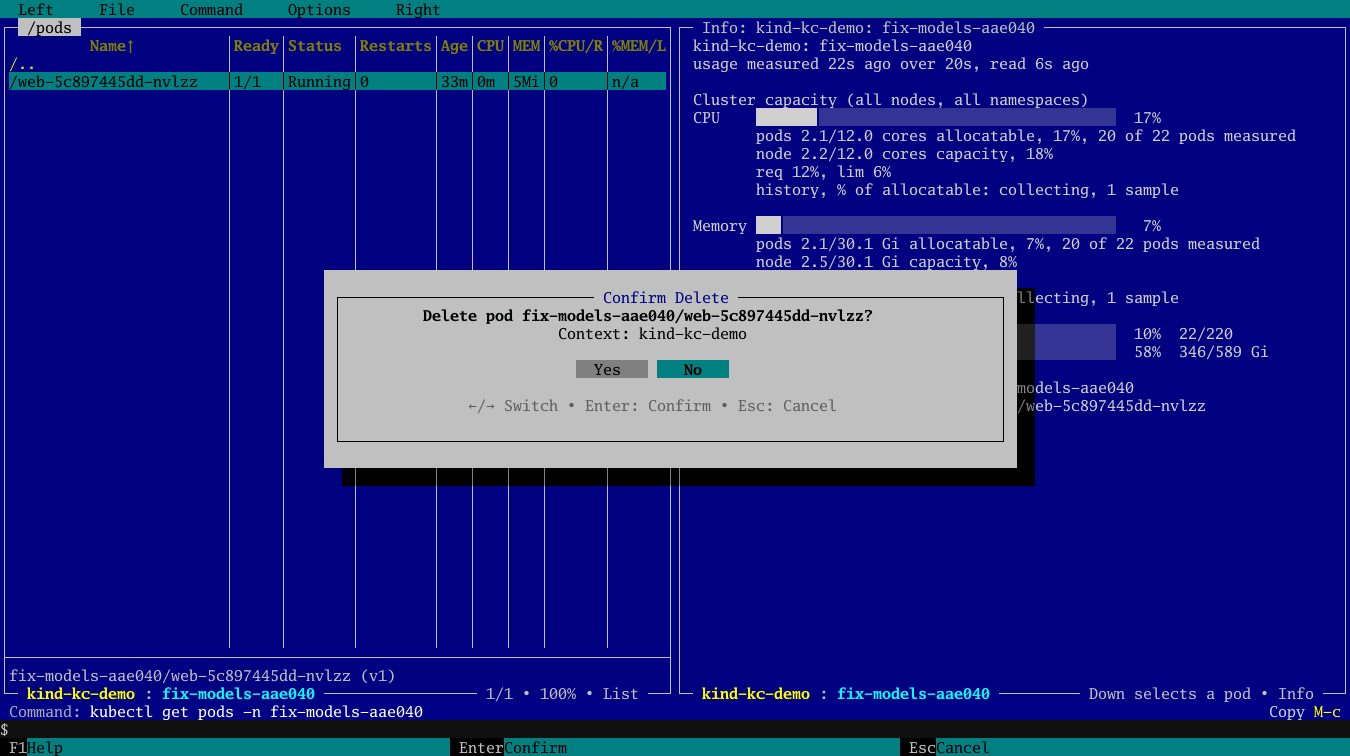
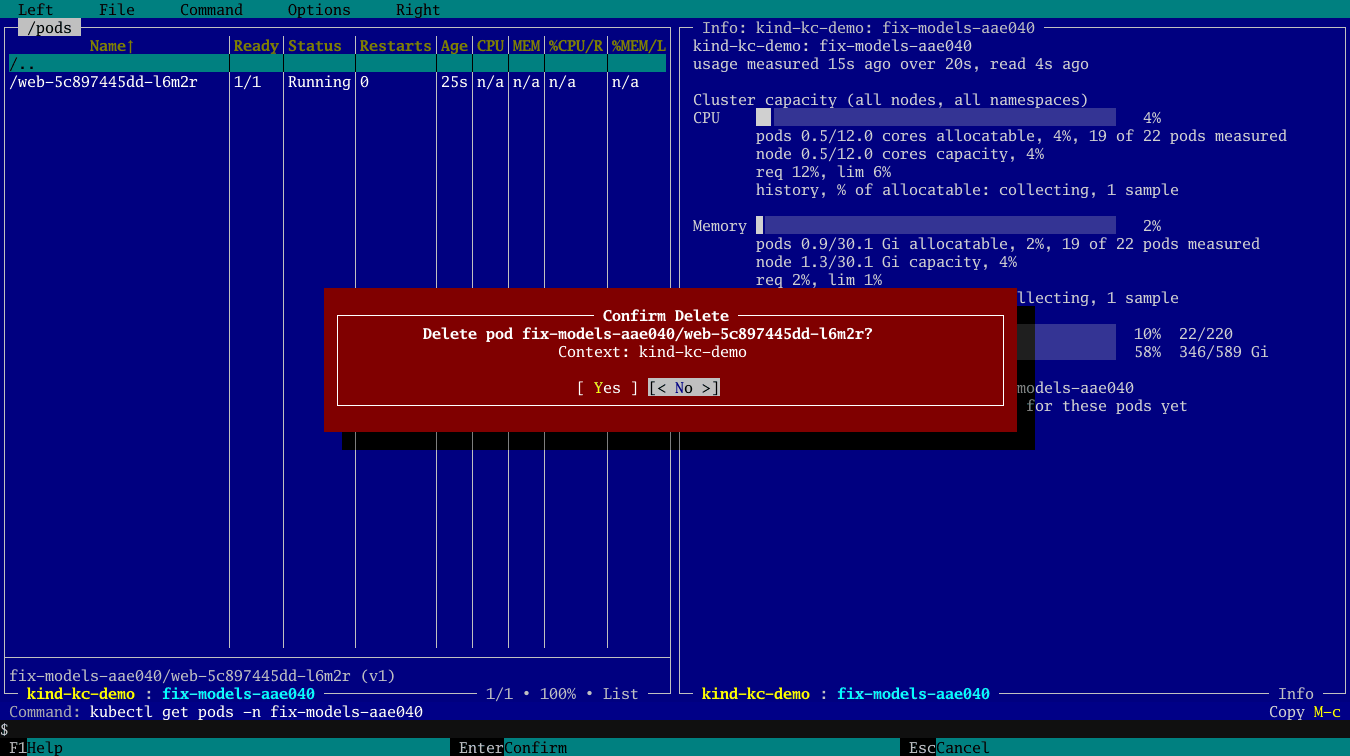
Draw the delete confirm red (#334)
Refs #323

#327 renamed the object in the delete confirm, but the dialog stayed
gray, with its own buttons and a key-help line. Every other dialog that
changes the cluster (scale, restart, rollback, drain, guarded commands)
uses the red danger skin. The delete confirm now does too:

- `SetDanger(true)` on the modal, `dialog.Danger()` for the body,
`dialog.RenderButtons` for `[ Yes ]` `[< No >]`. No is still the
default, so Enter right after F8 keeps the object.
- The gray "←/→ Switch • Enter: Confirm • Esc: Cancel" line is gone. The
F-key bar already shows Enter and Esc.
- The window is sized to its content: the title, the context, a blank
line and the buttons, with nothing empty under the buttons. The title
wraps and is never cut, so a long object name stays readable. The height
counts the wrapped lines.

The delete help page says the dialog is red and that `y` and `n` answer
directly.

This PR also removes the before screenshots of #324 and #327 from
`docs/screenshots` and replaces `327-after-delete.png` with the red
dialog.

## Tests

The existing `delete_confirm_modal_test.go` tests pass unchanged: No is
the default, Left then Enter confirms, `y` confirms, and the button
rectangles that mouse clicks use sit on the button line with and without
a context. New: `TestDeleteConfirmHeightFitsContent` checks 4 lines with
a context and 3 without, more lines for a wrapped title with the whole
name kept, and both buttons drawn.
[…]

diff --git a/internal/ui/delete_confirm_modal.go b/internal/ui/delete_confirm_modal.go
@@ -7,7 +7,7 @@ import (
 	tea "charm.land/bubbletea/v2"
 	"charm.land/lipgloss/v2"
 
-	uistyles "github.com/stokaro/kc/internal/ui/styles"
+	"github.com/stokaro/kc/internal/ui/dialog"
 )
 
 // DeleteConfirmMsg signals the result of the delete confirmation dialog.
@@ -101,61 +101,42 @@ func (m *DeleteConfirmModel) Update(msg tea.Msg) (tea.Model, tea.Cmd) {
 
 func (m *DeleteConfirmModel) View() tea.View {
 	innerWidth := max(30, m.width-4)
-	const buttonWidth = 8
-	separatorWidth := 1
+	skin := dialog.Danger()
+	row := skin.Normal.Width(innerWidth)
+	// The title wraps rather than cuts: the name is what the user checks
+	// before confirming.
+	lines := []string{row.Bold(true).Align(lipgloss.Center).Render(fmt.Sprintf("Delete %s?", m.target))}
+	if m.context != "" {
+		lines = append(lines, row.Align(lipgloss.Center).Render(fmt.Sprintf("Context: %s", m.context)))
+	}
+	lines = append(lines, row.Render(""))
+	top := lipgloss.Height(lipgloss.JoinVertical(lipgloss.Left, lines...))
+	// No is the default answer, so Enter right after opening keeps the
+	// object, as mc's confirm dialogs do.
+	buttons, rects := dialog.RenderButtons(skin, innerWidth, []dialog.Button{
+		{Label: "&Yes"}, {Label: "&No", Default: true},
+	}, m.focus)
 	for i := range m.buttonRect {
 		m.buttonRect[i] = buttonRect{}
 	}
-	bg := lipgloss.NewStyle().
-		Background(lipgloss.Color(uistyles.ColorModalBg)).
-		Foreground(lipgloss.Color(uistyles.ColorModalFg)).
-		Width(innerWidth)
-	title := fmt.Sprintf("Delete %s?", m.target)
-	titleView := bg.Bold(true).Align(lipgloss.Center).Render(title)
-	lines := []string{titleView}
-	if m.context != "" {
-		lines = append(lines, bg.Align(lipgloss.Center).Render(fmt.Sprintf("Context: %s", m.context)))
+	for i, r := range rects {
+		if i < len(m.buttonRect) {
+			m.buttonRect[i] = buttonRect{x: r.X, y: top, w: r.W, h: 1}
+		}
 	}
-	helpView := bg.Faint(true).Align(lipgloss.Center).Render("←/→ Switch • Enter: Confirm • Esc: Cancel")
-	options := []string{
-		m.renderOption("Yes", buttonWidth, m.focus == 0),
-		m.renderOption("No", buttonWidth, m.focus != 0),
-	}
-	separator := lipgloss.NewStyle().
-		Background(lipgloss.Color(uistyles.ColorModalBg)).
-		Render(" ")
-	bodyRow := lipgloss.JoinHorizontal(lipgloss.Center, options[0], separator, options[1])
-	bodyView := bg.Align(lipgloss.Center).Render(bodyRow)
-	rowWidth := lipgloss.Width(bodyRow)
-	leftPad := max(0, (innerWidth-rowWidth)/2)
-	bodyLine := len(lines) + 1 // title and context lines, spacer, buttons
-	yesWidth := lipgloss.Width(options[0])
-	noWidth := lipgloss.Width(options[1])
-	m.buttonRect[0] = buttonRect{x: leftPad, y: bodyLine, w: yesWidth, h: 1}
-	m.buttonRect[1] = buttonRect{
-		x: leftPad + yesWidth + separatorWidth,
-		y: bodyLine,
-		w: noWidth,
-		h: 1,
-	}
-	spacer := bg.Render("")
-	lines = append(lines, spacer, bodyView, spacer, helpView)
+	lines = append(lines, buttons)
 	return tea.NewView(lipgloss.JoinVertical(lipgloss.Left, lines...))
 }
 
-func (m *DeleteConfirmModel) renderOption(label string, width int, focused bool) string {
-	style := lipgloss.NewStyle().
-		Foreground(lipgloss.Color(uistyles.ColorModalFg)).
-		Background(lipgloss.Color(uistyles.ColorDarkGrey)).
-		Width(width).
-		Align(lipgloss.Center)
-	if focused {
-		style = style.
-			Foreground(lipgloss.Color(uistyles.ColorModalFg)).
-			Background(lipgloss.Color(uistyles.ColorModalSelBg)).
-			Bold(true)
-	}
-	return style.Render(label)
+// Height is the number of lines the dialog shows in a window whose inner
+// width is innerW: the title (wrapped), the context, a blank line and
+// the buttons.
+func (m *DeleteConfirmModel) Height(innerW int) int {
+	w, h := m.width, m.height
+	m.SetDimensions(innerW, h)
+	n := lipgloss.Height(m.View().Content)
+	m.SetDimensions(w, h)
+	return n
 }
 
 func (m *DeleteConfirmModel) FooterHints() []FooterHint {

diff --git a/internal/ui/delete_confirm_modal_test.go b/internal/ui/delete_confirm_modal_test.go
@@ -1,9 +1,11 @@
 package ui
 
 import (
+	"strings"
 	"testing"
 
 	tea "charm.land/bubbletea/v2"
+	"github.com/charmbracelet/x/ansi"
 )
 
 func pressKey(code rune, text string, mod tea.KeyMod) tea.KeyPressMsg {
@@ -60,5 +62,37 @@ func TestDeleteConfirmRuneShortcut(t *testing.T) {
 	}
 	if !res.Confirm {
 		t.Fatalf("expected confirm true via shortcut")
+	}
+}
+
+// TestDeleteConfirmHeightFitsContent checks that the dialog asks for no
+// more lines than it draws (#323): title, context, a blank line and the
+// buttons, plus a line per wrap of a long title. The name is wrapped,
+// never cut.
+func TestDeleteConfirmHeightFitsContent(t *testing.T) {
+	t.Parallel()
+	model := NewDeleteConfirmModel()
+	model.Configure("pod shop/web-1", "kind-dev")
+	if got := model.Height(60); got != 4 {
+		t.Fatalf("Height with context = %d, want 4", got)
+	}
+	model.Configure("pod shop/web-1", "")
+	if got := model.Height(60); got != 3 {
+		t.Fatalf("Height without context = %d, want 3", got)
+	}
+	long := "pod fix-models-aae040/web-5c897445dd-nvlzz-with-a-much-longer-name"
+	model.Configure(long, "kind-dev")
+	if got := model.Height(40); got <= 4 {
+		t.Fatalf("Height of a wrapped title = %d, want more than 4", got)
+	}
+	model.SetDimensions(40, 10)
+	view := ansi.Strip(model.View().Content)
+	if flat := strings.Join(strings.Fields(view), ""); !strings.Contains(flat, "web-5c897445dd-nvlzz-with-a-much-longer-name") {
+		t.Fatalf("the wrapped title lost part of the name:\n%s", view)
+	}
+	for _, want := range []string{"[ Yes ]", "[< No >]"} {
+		if !strings.Contains(view, want) {
+			t.Fatalf("view has no %q button:\n%s", want, view)
+		}
 	}
 }

diff --git a/internal/ui/app.go b/internal/ui/app.go
@@ -1082,6 +1082,7 @@ func (a *App) setupModals() {
 	delModel := NewDeleteConfirmModel()
 	delModal := NewModal("Confirm Delete", delModel)
 	delModal.SetCloseOnSingleEsc(true)
+	delModal.SetDanger(true)
 	a.modalManager.Register("delete_confirm", delModal)
 	a.deleteConfirm = delModel
 
@@ -1901,14 +1902,9 @@ func (a *App) deleteResourceForPanel(panel *Panel) tea.Cmd {
 	modal.SetContent(a.deleteConfirm)
 	modal.SetDimensions(a.width, a.height)
 	bg, _ := a.renderMainView()
-	winW := min(max(50, a.width/2), a.width-4)
-	winH := min(9, a.height-4)
-	if winW < 40 {
-		winW = 40
-	}
-	if winH < 6 {
-		winH = 6
-	}
+	winW := max(min(max(50, a.width/2), a.width-4), 40)
+	// The frame fits the content exactly: two border lines around it.
+	winH := min(a.deleteConfirm.Height(winW-2)+2, max(5, a.height-4))
 	modal.SetWindowed(winW, winH, bg)
 	modal.SetOnClose(func() tea.Cmd {
 		a.pendingDelete = nil

diff --git a/internal/help/topics/delete.md b/internal/help/topics/delete.md
@@ -13,7 +13,9 @@ The dialog asks `Delete pod shop/web-1?` and shows the kubeconfig
 context under the title, so you see which cluster you are about to
 change. It names the object as kubectl's output does: the kind, with
 its API group unless it is a core kind (`deployment.apps shop/web`),
-then namespace/name. `No` has the focus.
+then namespace/name. The dialog is red, as every dialog that changes
+the cluster is. `No` has the focus, so Enter right away keeps the
+object; `y` and `n` answer directly.
 
 When the dialog opens, kc records the object's UID and the cluster the
 row was read from. The delete request carries the UID as a
